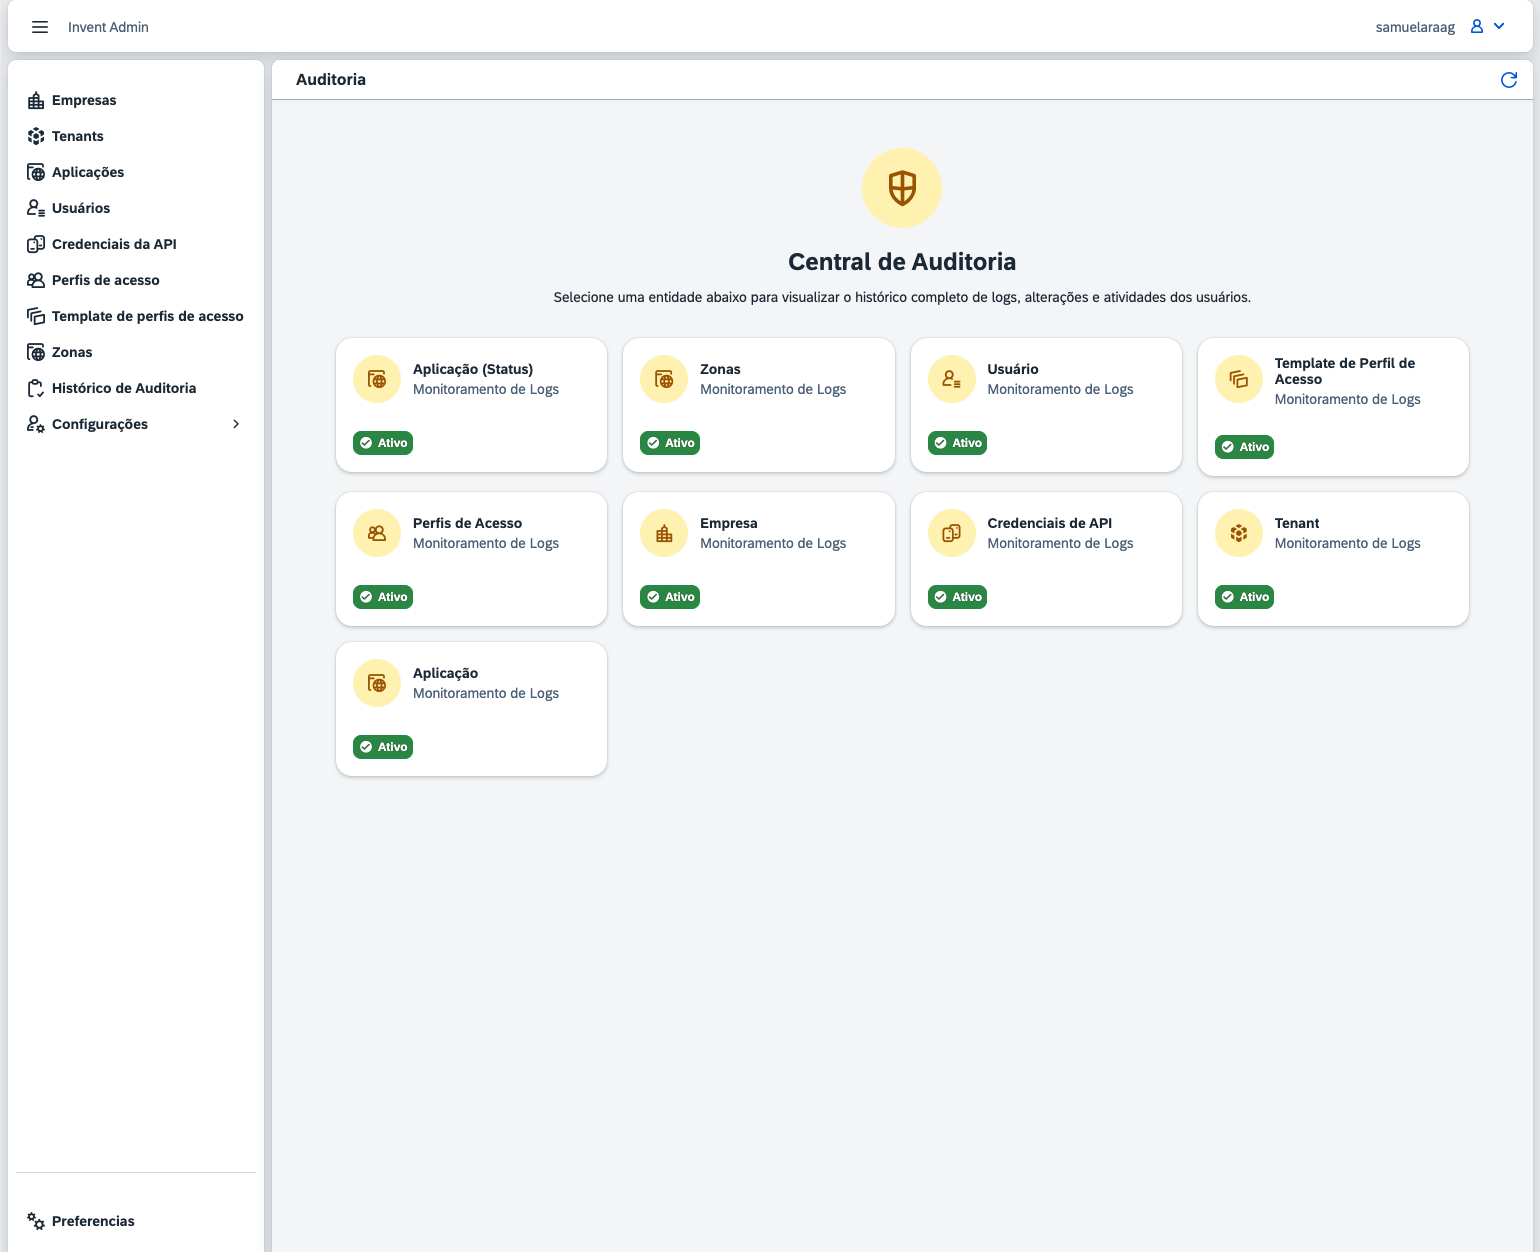
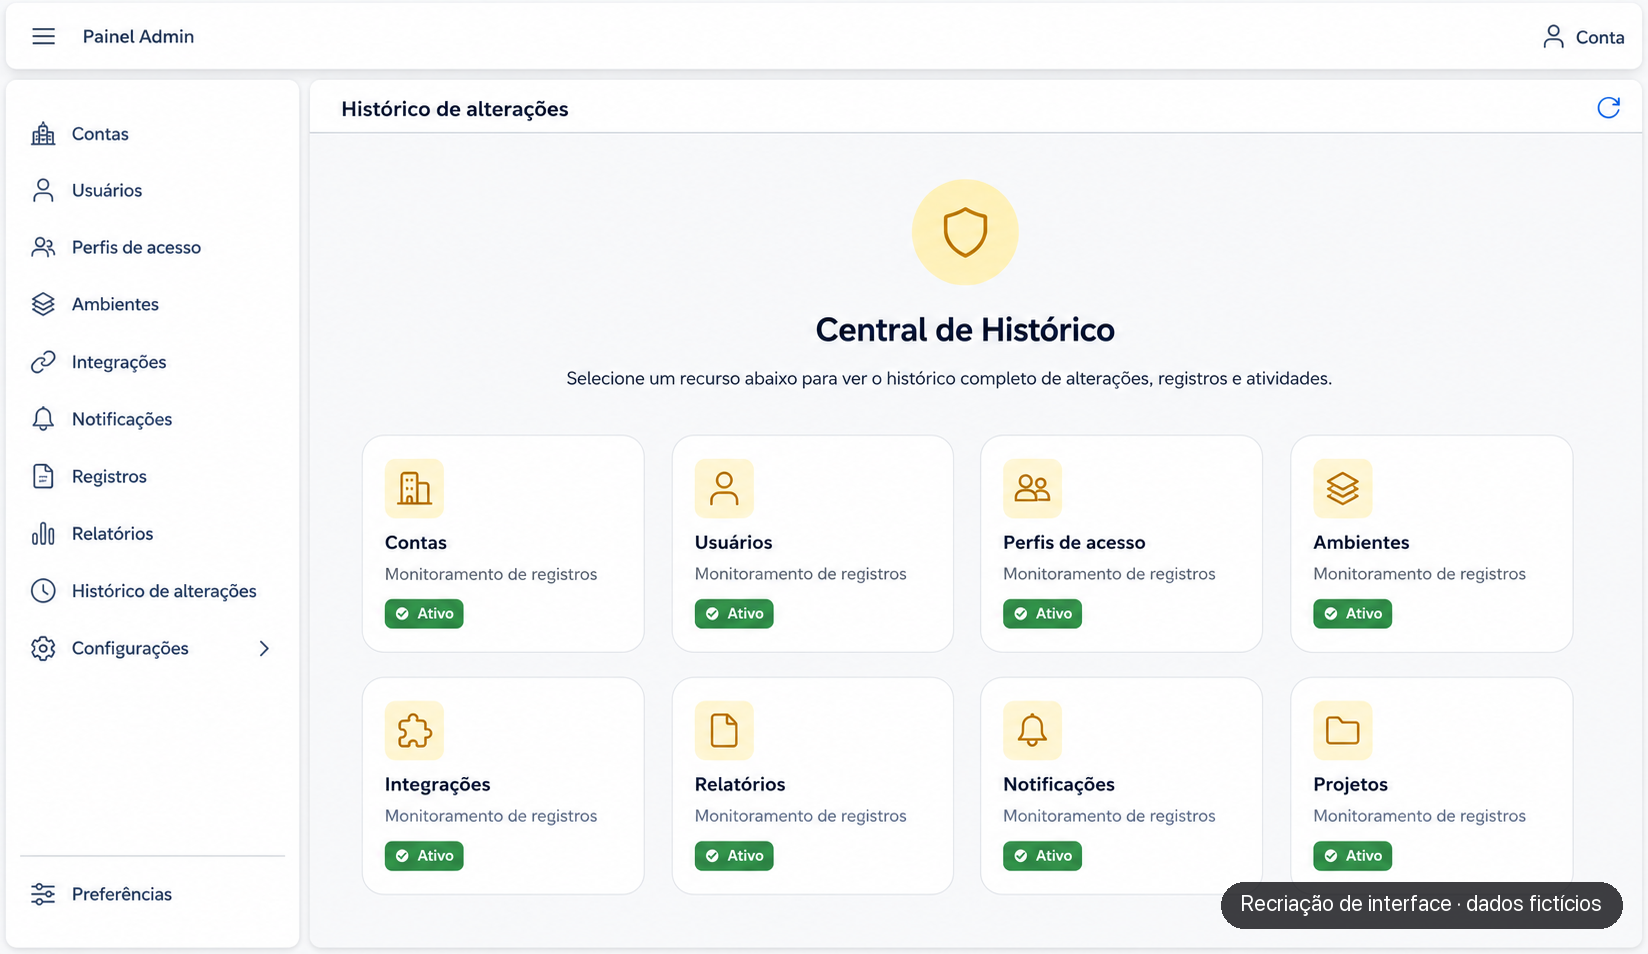
troca os prints de plataforma de ensino e auditoria por recriacoes sem dado de empresa
os prints antigos eram tela real do sistema da empresa: marca, nomes de curso, estrutura
do admin e foto de terceiro. agora sao mockups com marca e nomes ficticios, com marca
d'agua no proprio png e legenda no card deixando claro que nao reproduz sistema real.

diff --git a/index.html b/index.html
@@ -236,9 +236,12 @@
         </div>
         <div class="cards" role="list">
           <article class="card project" role="listitem">
-            <img loading="lazy" src="assets/plataforma-ensino.png"
-              alt="Tela inicial da plataforma de ensino, com o curso em destaque e a lista de cursos em andamento"
-              class="project-media" />
+            <figure class="project-figura">
+              <img loading="lazy" src="assets/plataforma-ensino.png"
+                alt="Recriação da interface de uma plataforma de ensino, com um curso em destaque e a lista de cursos em andamento. Marca, cursos e usuária são fictícios."
+                class="project-media" />
+              <figcaption class="project-legenda">Mockup recriado para o portfólio. Não reproduz tela, marca ou dado de sistema real.</figcaption>
+            </figure>
             <div class="card-body">
               <h3>Plataforma de ensino</h3>
               <p>Plataforma educacional construída do zero, com gestão de cursos com videoaulas, geração de
@@ -260,9 +263,12 @@
             </div>
           </article>
           <article class="card project" role="listitem">
-            <img loading="lazy" src="assets/auditoria.png"
-              alt="Central de auditoria com os cards das entidades monitoradas e o status de cada uma"
-              class="project-media" />
+            <figure class="project-figura">
+              <img loading="lazy" src="assets/auditoria.png"
+                alt="Recriação da interface de uma central de auditoria, com os cards dos recursos monitorados e o status de cada um. Marca e nomes de recurso são fictícios."
+                class="project-media" />
+              <figcaption class="project-legenda">Mockup recriado para o portfólio. Não reproduz tela, marca ou dado de sistema real.</figcaption>
+            </figure>
             <div class="card-body">
               <h3>Sistema de auditoria</h3>
               <p>Registro central das mudanças nas entidades principais, com log de auditoria e histórico

diff --git a/styles.css b/styles.css
@@ -252,6 +252,17 @@ a { color: var(--primary); text-decoration: none; }
   filter: brightness(1.1) contrast(0.95);
 }
 
+.project-figura { margin: 0; position: relative; }
+.project-figura .project-media { border-radius: 14px 14px 0 0; }
+
+.project-legenda {
+  margin: 0;
+  padding: 8px 16px 0;
+  font-size: .78rem;
+  line-height: 1.35;
+  color: var(--muted);
+}
+
 
 .section-heading { position: relative; display: flex; align-items: center; gap: 10px; flex-wrap: wrap; }
 .section-heading h2 { margin: 0 0 20px; }
